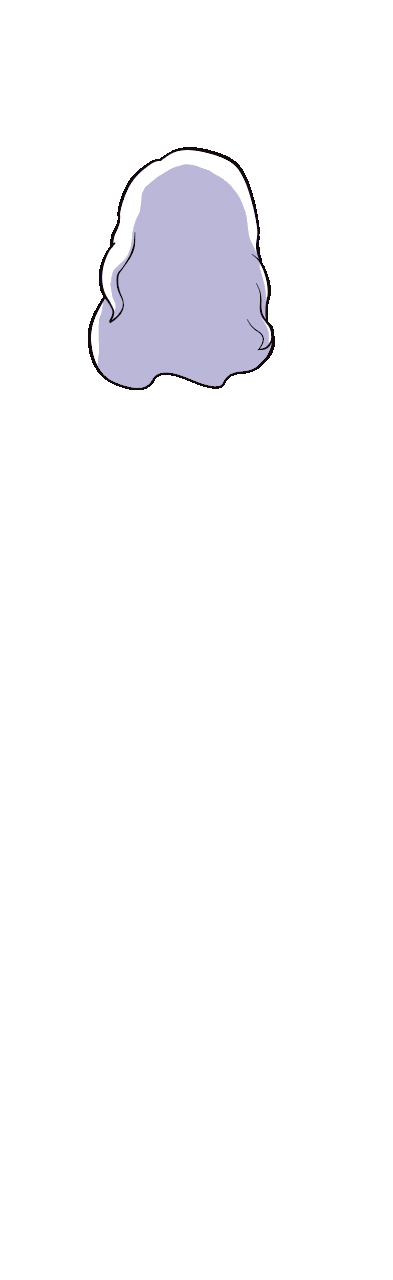
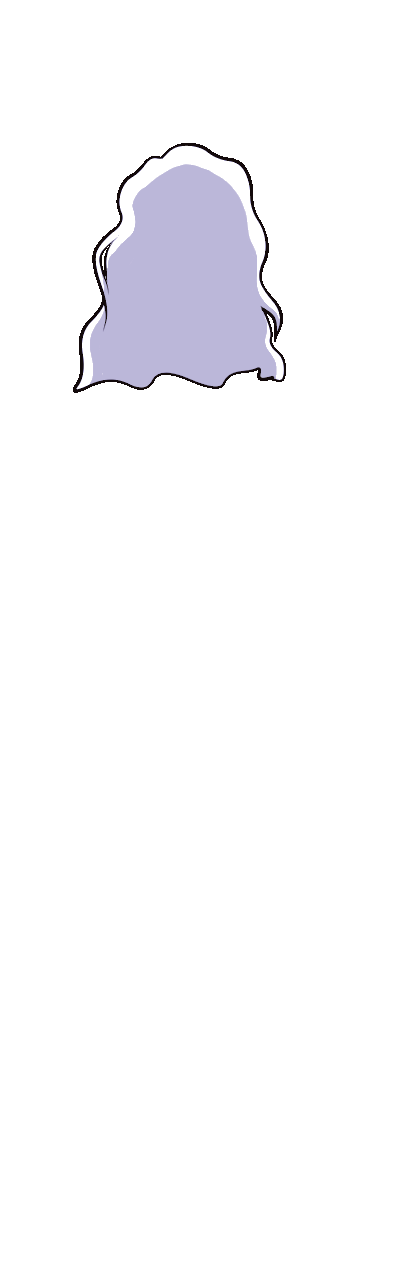
new hairstyles

diff --git a/code/generated.js b/code/generated.js
@@ -39,7 +39,7 @@ const defining_list = ["eyewear","neckwear","earrings","gloves","back","bottom",
 const back_list_d = [["none","thin tail","fluffy tail","sword","katanas",],["none","thin tail","fluffy tail","sword","katanas",],["fluffy tail","thin tail","sword","katanas",],[],[],true];
 const hat_back_list_d = [["none","bandanna","beanie","bowler","broad hat","cap","fedora","top hat","witch hat","top hat","scarf","turban","hood",],["none","bandanna","beanie","bowler","broad hat","cap","fedora","top hat","witch hat","top hat","scarf","turban","hood",],[],["scarf",],[],true];
 const hat_back_list_d_dec = [["scarf",],["scarf",],[],[],[],true];
-const hair_extra_list_d = [["none","topknot","straight high pony","straight low pony","curly pony","small curly pony","low curly pony","bun","fancy bun","locs bun","twin braids","twintails","locs pony",],["none","topknot",],["fancy bun","topknot",],[],[],true];
+const hair_extra_list_d = [["none","topknot","straight high pony","straight low pony","curly pony","small curly pony","low curly pony","bun","fancy bun","locs bun","little bun","little buns","twin braids","twintails","long twintails","twin puffs","side straight pony","long side straight pony","locs pony",],["none","topknot",],["fancy bun","topknot",],[],[],true];
 const hair_back_list_d = [["none","balding","buzzcut","straight short","curly short","wavy short","straight side","fade","shaggy short","tight curls short","tight curls medium","shaggy medium","curly bob","wavy bob","straight bob","locs bob","half up medium wavy","straight long","wavy long","curly long","long locs","curly flowing","straight flowing","straight up","curly up","locs up",],["none","balding","buzzcut","straight short","curly short","wavy short","straight side","fade","shaggy short","tight curls short","tight curls medium","shaggy medium","curly bob","wavy bob","straight bob","locs bob","half up medium wavy","straight long","wavy long","curly long","long locs","curly flowing","straight flowing","straight up","curly up","locs up",],[],[],[],true];
 const coat_back_list_d = [["none","medium cloak","wrap","overcoat","short jacket","dress jacket","business jacket","buttoned jacket","cool jacket","open robe","closed robe","open sweater","long open jacket","hoodie",],["none","medium cloak","wrap","overcoat","short jacket","dress jacket","business jacket","buttoned jacket","cool jacket","open robe","closed robe","open sweater","long open jacket","hoodie",],[],[],[],true];
 const body_list_d = [["regular",],["regular",],[],[],[],true];
@@ -87,7 +87,7 @@ const eyebrows_list_d = [["flat","flat sad","flat grumpy","flat angry","sad","sa
 const eyes_list_d = [["neutral","side","crescents","flat","narrowed","happy","wide","shock","angry","angry side","sleepy","wink","rolled",],["neutral","side","crescents","flat","narrowed","happy","wide","shock","angry","angry side","sleepy","wink","rolled",],[],[],[],true];
 const facial_hair_list_d = [["none",],["none","beard","moustache","goatee","soul patch","fluffy goatee","stubble",],[],[],[],true];
 const nose_front_list_d = [["none","nostrils","button","round","medium","flat","broad","pointed","hooked",],["none","nostrils","button","round","medium","flat","broad","pointed","hooked",],["none","nostrils",],[],[],true];
-const hair_front_list_d = [["none","balding","neat side","fade","long locs","curly flowing","curly long","straight flowing","locs bun","locs bob","short locs","cornrows",],["none","balding","neat side","fade","long locs","curly flowing","curly long","straight flowing","locs bun","locs bob","short locs","cornrows",],[],[],[],true];
+const hair_front_list_d = [["none","balding","neat side","fade","long locs","curly flowing","curly long","straight half up","bob half up","straight flowing","locs bun","locs bob","short locs","cornrows",],["none","balding","neat side","fade","long locs","curly flowing","curly long","straight half up","bob half up","straight flowing","locs bun","locs bob","short locs","cornrows",],[],[],[],true];
 const eyewear_list_d = [["none","eye patch","oblong wireframes","coloured wireframes","oblong glasses","square glasses","round glasses","coloured spectacles","spectacles","sunglasses","coloured glasses","domino mask","face mask",],["none","monocle","eye patch","oblong wireframes","coloured wireframes","oblong glasses","square glasses","round glasses","coloured spectacles","spectacles","sunglasses","coloured glasses","domino mask","face mask",],["monocle","spectacles","coloured spectacles","eye patch","domino mask",],["coloured spectacles","coloured glasses",],[],true];
 const eyewear_list_d_dec = [["coloured spectacles","coloured glasses",],["coloured spectacles","coloured glasses",],[],[],[],true];
 const hat_middle_list_d = [["none","beads","head band","side bow","bow","tiara","scarf","cat ears","curled horns","pointed horns",],["none","sweat band","cat ears","curled horns","pointed horns",],["beads","cat ears","curled horns","pointed horns","tiara",],[],[],false];
@@ -376,11 +376,11 @@ const character_preset_defining_list=[
 {name:'eyes',value_list:[0,5,1,8,6,1,7,3,1,0],colour1:'#9ccfe5',colour2:'#00FF00',patterncolour:'#0000FF',pattern:0},
 {name:'facial_hair',value_list:[0,0,0,0,0,0,0,0,0,0],colour1:'#FF0000',colour2:'#00FF00',patterncolour:'#0000FF',pattern:0},
 {name:'eyewear',value_list:[10,10,10,10,10,10,10,10,10,10],colour1:'#86b13a',colour2:'#C06C84',patterncolour:'#FDEECD',pattern:0},
-{name:'fringe',value_list:[16,16,16,16,16,16,16,16,16,16],colour1:'#efd17b',colour2:'#00FF00',patterncolour:'#0000FF',pattern:0},
+{name:'fringe',value_list:[18,18,18,18,18,18,18,18,18,18],colour1:'#efd17b',colour2:'#00FF00',patterncolour:'#0000FF',pattern:0},
 {name:'wheelchair',value_list:[0,0,0,0,0,0,0,0,0,0],colour1:'#FF0000',colour2:'#00FF00',patterncolour:'#0000FF',pattern:0},
 {name:'hat',value_list:[6,6,6,6,6,6,6,6,6,6],colour1:'#85d9da',colour2:'#C04848',patterncolour:'#1F5F61',pattern:0}],ui_variables_object:
-{dark_theme:false,current_tab_type:2,current_expression_type:0,current_clothingname:2,current_accessoryname:0,current_export_image_type:0,current_gender_type:0,current_size_type:0,current_head_ratio_type:0,crop_height:'0',current_effect_type:0,effect_colour:'#000000',current_character_preset:0,current_expression_preset:0,isWeirdOutfit:false,isWeirdBody:false},defining_variables_object:
-{current_eyetype:1,current_hairstyle:15,current_waist_type:0}},
+{dark_theme:false,current_tab_type:1,current_expression_type:0,current_clothingname:0,current_accessoryname:0,current_export_image_type:0,current_gender_type:0,current_size_type:0,current_head_ratio_type:0,crop_height:300,current_effect_type:0,effect_colour:'#000000',current_character_preset:0,current_expression_preset:0,isWeirdOutfit:false,isWeirdBody:false},defining_variables_object:
+{current_eyetype:1,current_hairstyle:19,current_waist_type:0}},
 
 
 {current_defining_objects:[
@@ -448,10 +448,10 @@ const character_preset_defining_list=[
 {name:'eyes',value_list:[0,5,1,8,6,1,7,3,1,0],colour1:'#4f5462',colour2:'#00FF00',patterncolour:'#0000FF',pattern:0},
 {name:'facial_hair',value_list:[0,0,0,0,0,0,0,0,0,0],colour1:'#FF0000',colour2:'#00FF00',patterncolour:'#0000FF',pattern:0},
 {name:'eyewear',value_list:[0,0,0,0,0,0,0,0,0,0],colour1:'#F67280',colour2:'#355C7D',patterncolour:'#C06C84',pattern:2},
-{name:'fringe',value_list:[4,4,4,4,4,4,4,4,4,4],colour1:'#986034',colour2:'#00FF00',patterncolour:'#0000FF',pattern:0},
+{name:'fringe',value_list:[5,5,5,5,5,5,5,5,5,5],colour1:'#986034',colour2:'#00FF00',patterncolour:'#0000FF',pattern:0},
 {name:'wheelchair',value_list:[0,0,0,0,0,0,0,0,0,0],colour1:'#FF0000',colour2:'#00FF00',patterncolour:'#0000FF',pattern:0},
 {name:'hat',value_list:[6,6,6,6,6,6,6,6,6,6],colour1:'#e5c673',colour2:'#F8B195',patterncolour:'#C06C84',pattern:0}],ui_variables_object:
-{dark_theme:false,current_tab_type:5,current_expression_type:0,current_clothingname:1,current_accessoryname:5,current_export_image_type:0,current_gender_type:0,current_size_type:0,current_head_ratio_type:0,crop_height:'0',current_effect_type:0,effect_colour:'#000000',current_character_preset:9,current_expression_preset:2,isWeirdOutfit:false,isWeirdBody:false},defining_variables_object:
+{dark_theme:false,current_tab_type:5,current_expression_type:0,current_clothingname:0,current_accessoryname:0,current_export_image_type:0,current_gender_type:0,current_size_type:0,current_head_ratio_type:0,crop_height:300,current_effect_type:0,effect_colour:'#000000',current_character_preset:2,current_expression_preset:0,isWeirdOutfit:false,isWeirdBody:false},defining_variables_object:
 {current_eyetype:2,current_hairstyle:9,current_waist_type:0}},
 
 
@@ -484,10 +484,10 @@ const character_preset_defining_list=[
 {name:'eyes',value_list:[0,2,5,8,6,4,6,3,0,0],colour1:'#5b9659',colour2:'#00FF00',patterncolour:'#0000FF',pattern:0},
 {name:'facial_hair',value_list:[0,0,0,0,0,0,0,0,0,0],colour1:'#FF0000',colour2:'#00FF00',patterncolour:'#0000FF',pattern:0},
 {name:'eyewear',value_list:[0,0,0,0,0,0,0,0,0,0],colour1:'#A0C55F',colour2:'#A0C55F',patterncolour:'#0D6759',pattern:0},
-{name:'fringe',value_list:[20,20,20,20,20,20,20,20,20,20],colour1:'#c04532',colour2:'#00FF00',patterncolour:'#0000FF',pattern:0},
+{name:'fringe',value_list:[22,22,22,22,22,22,22,22,22,22],colour1:'#c04532',colour2:'#00FF00',patterncolour:'#0000FF',pattern:0},
 {name:'wheelchair',value_list:[0,0,0,0,0,0,0,0,0,0],colour1:'#FF0000',colour2:'#00FF00',patterncolour:'#0000FF',pattern:0},
 {name:'hat',value_list:[0,0,0,0,0,0,0,0,0,0],colour1:'#e8e3cd',colour2:'#2A044A',patterncolour:'#0D6759',pattern:0}],ui_variables_object:
-{dark_theme:false,current_tab_type:5,current_expression_type:0,current_clothingname:2,current_accessoryname:0,current_export_image_type:0,current_gender_type:0,current_size_type:0,current_head_ratio_type:0,crop_height:'0',current_effect_type:0,effect_colour:'#000000',current_character_preset:2,current_expression_preset:0,isWeirdOutfit:false,isWeirdBody:false},defining_variables_object:
+{dark_theme:false,current_tab_type:1,current_expression_type:0,current_clothingname:0,current_accessoryname:0,current_export_image_type:0,current_gender_type:0,current_size_type:0,current_head_ratio_type:0,crop_height:300,current_effect_type:0,effect_colour:'#000000',current_character_preset:3,current_expression_preset:0,isWeirdOutfit:false,isWeirdBody:false},defining_variables_object:
 {current_eyetype:6,current_hairstyle:4,current_waist_type:0}},
 
 
@@ -520,11 +520,11 @@ const character_preset_defining_list=[
 {name:'eyes',value_list:[0,5,0,4,6,1,6,3,1,0],colour1:'#c47fc9',colour2:'#00FF00',patterncolour:'#0000FF',pattern:0},
 {name:'facial_hair',value_list:[0,0,0,0,0,0,0,0,0,0],colour1:'#FF0000',colour2:'#00FF00',patterncolour:'#0000FF',pattern:0},
 {name:'eyewear',value_list:[13,13,13,13,13,13,13,13,13,13],colour1:'#33302a',colour2:'#6C5B7B',patterncolour:'#1C0113',pattern:0},
-{name:'fringe',value_list:[25,25,25,25,25,25,25,25,25,25],colour1:'#fef9f0',colour2:'#00FF00',patterncolour:'#0000FF',pattern:0},
+{name:'fringe',value_list:[6,6,6,6,6,6,6,6,6,6],colour1:'#fef9f0',colour2:'#00FF00',patterncolour:'#0000FF',pattern:0},
 {name:'wheelchair',value_list:[0,0,0,0,0,0,0,0,0,0],colour1:'#FF0000',colour2:'#00FF00',patterncolour:'#0000FF',pattern:0},
 {name:'hat',value_list:[14,14,14,14,14,14,14,14,14,14],colour1:'#33302a',colour2:'#D24858',patterncolour:'#1C0113',pattern:0}],ui_variables_object:
-{dark_theme:false,current_tab_type:5,current_expression_type:0,current_clothingname:2,current_accessoryname:0,current_export_image_type:0,current_gender_type:0,current_size_type:0,current_head_ratio_type:0,crop_height:'0',current_effect_type:0,effect_colour:'#000000',current_character_preset:1,current_expression_preset:0,isWeirdOutfit:true,isWeirdBody:true},defining_variables_object:
-{current_eyetype:3,current_hairstyle:28,current_waist_type:0}},
+{dark_theme:false,current_tab_type:5,current_expression_type:0,current_clothingname:0,current_accessoryname:0,current_export_image_type:0,current_gender_type:0,current_size_type:0,current_head_ratio_type:0,crop_height:300,current_effect_type:0,effect_colour:'#000000',current_character_preset:4,current_expression_preset:0,isWeirdOutfit:true,isWeirdBody:true},defining_variables_object:
+{current_eyetype:3,current_hairstyle:5,current_waist_type:0}},
 
 
 {current_defining_objects:[
@@ -556,11 +556,11 @@ const character_preset_defining_list=[
 {name:'eyes',value_list:[0,5,1,8,6,1,7,3,1,0],colour1:'#a8002a',colour2:'#00FF00',patterncolour:'#0000FF',pattern:0},
 {name:'facial_hair',value_list:[0,0,0,0,0,0,0,0,0,0],colour1:'#FF0000',colour2:'#00FF00',patterncolour:'#0000FF',pattern:0},
 {name:'eyewear',value_list:[0,0,0,0,0,0,0,0,0,0],colour1:'#A8E6CE',colour2:'#F0B49E',patterncolour:'#300030',pattern:0},
-{name:'fringe',value_list:[19,19,19,19,19,19,19,19,19,19],colour1:'#8ecf6b',colour2:'#00FF00',patterncolour:'#0000FF',pattern:0},
+{name:'fringe',value_list:[21,21,21,21,21,21,21,21,21,21],colour1:'#8ecf6b',colour2:'#00FF00',patterncolour:'#0000FF',pattern:0},
 {name:'wheelchair',value_list:[0,0,0,0,0,0,0,0,0,0],colour1:'#FF0000',colour2:'#00FF00',patterncolour:'#0000FF',pattern:0},
 {name:'hat',value_list:[3,3,3,3,3,3,3,3,3,3],colour1:'#ede3cd',colour2:'#571B3C',patterncolour:'#A26156',pattern:8}],ui_variables_object:
-{dark_theme:false,current_tab_type:1,current_expression_type:0,current_clothingname:5,current_accessoryname:2,current_export_image_type:0,current_gender_type:0,current_size_type:0,current_head_ratio_type:0,crop_height:'0',current_effect_type:0,effect_colour:'#000000',current_character_preset:9,current_expression_preset:0,isWeirdOutfit:false,isWeirdBody:false},defining_variables_object:
-{current_eyetype:3,current_hairstyle:22,current_waist_type:0}},
+{dark_theme:false,current_tab_type:5,current_expression_type:0,current_clothingname:0,current_accessoryname:0,current_export_image_type:0,current_gender_type:0,current_size_type:0,current_head_ratio_type:0,crop_height:300,current_effect_type:0,effect_colour:'#000000',current_character_preset:5,current_expression_preset:0,isWeirdOutfit:true,isWeirdBody:true},defining_variables_object:
+{current_eyetype:3,current_hairstyle:26,current_waist_type:0}},
 
 
 {current_defining_objects:[
@@ -592,10 +592,10 @@ const character_preset_defining_list=[
 {name:'eyes',value_list:[0,5,0,4,6,1,6,3,1,0],colour1:'#99925F',colour2:'#00FF00',patterncolour:'#0000FF',pattern:0},
 {name:'facial_hair',value_list:[2,2,2,2,2,2,2,2,2,2],colour1:'#FAF6E9',colour2:'#FAF1CF',patterncolour:'#0000FF',pattern:0},
 {name:'eyewear',value_list:[3,3,3,3,3,3,3,3,3,3],colour1:'#7AB317',colour2:'#40524f',patterncolour:'#e8e5d0',pattern:0},
-{name:'fringe',value_list:[9,9,9,9,9,9,9,9,9,9],colour1:'#D8B994',colour2:'#00FF00',patterncolour:'#0000FF',pattern:0},
+{name:'fringe',value_list:[10,10,10,10,10,10,10,10,10,10],colour1:'#D8B994',colour2:'#00FF00',patterncolour:'#0000FF',pattern:0},
 {name:'wheelchair',value_list:[0,0,0,0,0,0,0,0,0,0],colour1:'#E1748A',colour2:'#FAF1CF',patterncolour:'#0000FF',pattern:0},
 {name:'hat',value_list:[8,8,8,8,8,8,8,8,8,8],colour1:'#3e3831',colour2:'#3c534f',patterncolour:'#36544F',pattern:0}],ui_variables_object:
-{dark_theme:false,current_tab_type:5,current_expression_type:0,current_clothingname:0,current_accessoryname:0,current_export_image_type:0,current_gender_type:1,current_size_type:0,current_head_ratio_type:0,crop_height:300,current_effect_type:0,effect_colour:'#000000',current_character_preset:3,current_expression_preset:0,isWeirdOutfit:false,isWeirdBody:false},defining_variables_object:
+{dark_theme:false,current_tab_type:5,current_expression_type:0,current_clothingname:0,current_accessoryname:0,current_export_image_type:0,current_gender_type:1,current_size_type:0,current_head_ratio_type:0,crop_height:300,current_effect_type:0,effect_colour:'#000000',current_character_preset:6,current_expression_preset:0,isWeirdOutfit:false,isWeirdBody:false},defining_variables_object:
 {current_eyetype:6,current_hairstyle:8,current_waist_type:0}},
 
 
@@ -631,8 +631,8 @@ const character_preset_defining_list=[
 {name:'fringe',value_list:[0,0,0,0,0,0,0,0,0,0],colour1:'#39211e',colour2:'#00FF00',patterncolour:'#0000FF',pattern:0},
 {name:'wheelchair',value_list:[0,0,0,0,0,0,0,0,0,0],colour1:'#FF0000',colour2:'#00FF00',patterncolour:'#0000FF',pattern:0},
 {name:'hat',value_list:[9,9,9,9,9,9,9,9,9,9],colour1:'#36587d',colour2:'#f7e4be',patterncolour:'#685b79',pattern:0}],ui_variables_object:
-{dark_theme:false,current_tab_type:5,current_expression_type:0,current_clothingname:3,current_accessoryname:5,current_export_image_type:0,current_gender_type:1,current_size_type:0,current_head_ratio_type:0,crop_height:'0',current_effect_type:0,effect_colour:'#000000',current_character_preset:0,current_expression_preset:0,isWeirdOutfit:false,isWeirdBody:false},defining_variables_object:
-{current_eyetype:0,current_hairstyle:26,current_waist_type:0}},
+{dark_theme:false,current_tab_type:5,current_expression_type:0,current_clothingname:0,current_accessoryname:0,current_export_image_type:0,current_gender_type:1,current_size_type:0,current_head_ratio_type:0,crop_height:300,current_effect_type:0,effect_colour:'#000000',current_character_preset:7,current_expression_preset:0,isWeirdOutfit:false,isWeirdBody:false},defining_variables_object:
+{current_eyetype:0,current_hairstyle:32,current_waist_type:0}},
 
 
 {current_defining_objects:[
@@ -664,11 +664,11 @@ const character_preset_defining_list=[
 {name:'eyes',value_list:[0,5,6,8,6,4,6,3,11,0],colour1:'#d340e5',colour2:'#00FF00',patterncolour:'#0000FF',pattern:0},
 {name:'facial_hair',value_list:[1,1,1,1,1,1,1,1,1,1],colour1:'#FF0000',colour2:'#00FF00',patterncolour:'#0000FF',pattern:0},
 {name:'eyewear',value_list:[9,9,9,9,9,9,9,9,9,9],colour1:'#e5b186',colour2:'#F07241',patterncolour:'#480048',pattern:0},
-{name:'fringe',value_list:[14,14,14,14,14,14,14,14,14,14],colour1:'#4a499b',colour2:'#00FF00',patterncolour:'#0000FF',pattern:0},
+{name:'fringe',value_list:[16,16,16,16,16,16,16,16,16,16],colour1:'#4a499b',colour2:'#00FF00',patterncolour:'#0000FF',pattern:0},
 {name:'wheelchair',value_list:[0,0,0,0,0,0,0,0,0,0],colour1:'#FF0000',colour2:'#00FF00',patterncolour:'#0000FF',pattern:0},
 {name:'hat',value_list:[11,11,11,11,11,11,11,11,11,11],colour1:'#220048',colour2:'#c05f48',patterncolour:'#F07241',pattern:0}],ui_variables_object:
-{dark_theme:false,current_tab_type:5,current_expression_type:0,current_clothingname:1,current_accessoryname:2,current_export_image_type:0,current_gender_type:1,current_size_type:0,current_head_ratio_type:0,crop_height:'0',current_effect_type:0,effect_colour:'#000000',current_character_preset:4,current_expression_preset:0,isWeirdOutfit:true,isWeirdBody:true},defining_variables_object:
-{current_eyetype:1,current_hairstyle:27,current_waist_type:0}},
+{dark_theme:false,current_tab_type:5,current_expression_type:0,current_clothingname:0,current_accessoryname:0,current_export_image_type:0,current_gender_type:1,current_size_type:0,current_head_ratio_type:0,crop_height:300,current_effect_type:0,effect_colour:'#000000',current_character_preset:8,current_expression_preset:0,isWeirdOutfit:true,isWeirdBody:true},defining_variables_object:
+{current_eyetype:1,current_hairstyle:22,current_waist_type:0}},
 
 
 {current_defining_objects:[
@@ -700,11 +700,11 @@ const character_preset_defining_list=[
 {name:'eyes',value_list:[0,5,0,4,6,1,6,3,1,0],colour1:'#fad56d',colour2:'#00FF00',patterncolour:'#0000FF',pattern:0},
 {name:'facial_hair',value_list:[0,0,0,0,0,0,0,0,0,0],colour1:'#FF0000',colour2:'#00FF00',patterncolour:'#0000FF',pattern:0},
 {name:'eyewear',value_list:[0,0,0,0,0,0,0,0,0,0],colour1:'#D24858',colour2:'#703D6F',patterncolour:'#D24858',pattern:0},
-{name:'fringe',value_list:[15,15,15,15,15,15,15,15,15,15],colour1:'#3f2a42',colour2:'#00FF00',patterncolour:'#0000FF',pattern:0},
+{name:'fringe',value_list:[17,17,17,17,17,17,17,17,17,17],colour1:'#3f2a42',colour2:'#00FF00',patterncolour:'#0000FF',pattern:0},
 {name:'wheelchair',value_list:[0,0,0,0,0,0,0,0,0,0],colour1:'#FF0000',colour2:'#00FF00',patterncolour:'#0000FF',pattern:0},
 {name:'hat',value_list:[1,1,1,1,1,1,1,1,1,1],colour1:'#eae5cf',colour2:'#571B3C',patterncolour:'#C7EDE8',pattern:0}],ui_variables_object:
-{dark_theme:false,current_tab_type:5,current_expression_type:0,current_clothingname:1,current_accessoryname:2,current_export_image_type:0,current_gender_type:1,current_size_type:0,current_head_ratio_type:0,crop_height:'0',current_effect_type:0,effect_colour:'#000000',current_character_preset:5,current_expression_preset:0,isWeirdOutfit:true,isWeirdBody:false},defining_variables_object:
-{current_eyetype:3,current_hairstyle:22,current_waist_type:0}},
+{dark_theme:false,current_tab_type:5,current_expression_type:0,current_clothingname:0,current_accessoryname:0,current_export_image_type:0,current_gender_type:1,current_size_type:0,current_head_ratio_type:0,crop_height:300,current_effect_type:0,effect_colour:'#000000',current_character_preset:9,current_expression_preset:0,isWeirdOutfit:true,isWeirdBody:false},defining_variables_object:
+{current_eyetype:3,current_hairstyle:18,current_waist_type:0}},
 
 
 {current_defining_objects:[
@@ -736,11 +736,11 @@ const character_preset_defining_list=[
 {name:'eyes',value_list:[0,2,5,8,6,4,6,3,0,0],colour1:'#ce9653',colour2:'#00FF00',patterncolour:'#0000FF',pattern:0},
 {name:'facial_hair',value_list:[3,3,3,3,3,3,3,3,3,3],colour1:'#FF0000',colour2:'#00FF00',patterncolour:'#0000FF',pattern:0},
 {name:'eyewear',value_list:[1,1,1,1,1,1,1,1,1,1],colour1:'#cfa764',colour2:'#FCECCA',patterncolour:'#93D7DB',pattern:0},
-{name:'fringe',value_list:[22,22,22,22,22,22,22,22,22,22],colour1:'#6f3a48',colour2:'#00FF00',patterncolour:'#0000FF',pattern:0},
+{name:'fringe',value_list:[25,25,25,25,25,25,25,25,25,25],colour1:'#6f3a48',colour2:'#00FF00',patterncolour:'#0000FF',pattern:0},
 {name:'wheelchair',value_list:[0,0,0,0,0,0,0,0,0,0],colour1:'#FF0000',colour2:'#00FF00',patterncolour:'#0000FF',pattern:0},
 {name:'hat',value_list:[5,5,5,5,5,5,5,5,5,5],colour1:'#ADD9D5',colour2:'#996458',patterncolour:'#ADD9D5',pattern:0}],ui_variables_object:
-{dark_theme:false,current_tab_type:1,current_expression_type:0,current_clothingname:4,current_accessoryname:5,current_export_image_type:0,current_gender_type:1,current_size_type:0,current_head_ratio_type:0,crop_height:'0',current_effect_type:0,effect_colour:'#000000',current_character_preset:9,current_expression_preset:2,isWeirdOutfit:true,isWeirdBody:false},defining_variables_object:
-{current_eyetype:2,current_hairstyle:8,current_waist_type:0}},
+{dark_theme:false,current_tab_type:5,current_expression_type:0,current_clothingname:0,current_accessoryname:0,current_export_image_type:0,current_gender_type:1,current_size_type:0,current_head_ratio_type:0,crop_height:300,current_effect_type:0,effect_colour:'#000000',current_character_preset:10,current_expression_preset:0,isWeirdOutfit:true,isWeirdBody:false},defining_variables_object:
+{current_eyetype:2,current_hairstyle:7,current_waist_type:0}},
 
 
 {current_defining_objects:[
@@ -772,11 +772,11 @@ const character_preset_defining_list=[
 {name:'eyes',value_list:[0,5,6,8,6,4,6,3,11,0],colour1:'#461c18',colour2:'#00FF00',patterncolour:'#0000FF',pattern:0},
 {name:'facial_hair',value_list:[0,0,0,0,0,0,0,0,0,0],colour1:'#FAF6E9',colour2:'#FAF1CF',patterncolour:'#0000FF',pattern:0},
 {name:'eyewear',value_list:[0,0,0,0,0,0,0,0,0,0],colour1:'#C7EDE8',colour2:'#cfbd84',patterncolour:'#375a86',pattern:0},
-{name:'fringe',value_list:[25,25,25,25,25,25,25,25,25,25],colour1:'#402040',colour2:'#00FF00',patterncolour:'#0000FF',pattern:0},
+{name:'fringe',value_list:[19,19,19,19,19,19,19,19,19,19],colour1:'#402040',colour2:'#00FF00',patterncolour:'#0000FF',pattern:0},
 {name:'wheelchair',value_list:[0,0,0,0,0,0,0,0,0,0],colour1:'#E1748A',colour2:'#FAF1CF',patterncolour:'#0000FF',pattern:0},
 {name:'hat',value_list:[0,0,0,0,0,0,0,0,0,0],colour1:'#e7d083',colour2:'#2c5b8a',patterncolour:'#C7EDE8',pattern:11}],ui_variables_object:
-{dark_theme:false,current_tab_type:5,current_expression_type:0,current_clothingname:5,current_accessoryname:2,current_export_image_type:0,current_gender_type:2,current_size_type:0,current_head_ratio_type:0,crop_height:'0',current_effect_type:0,effect_colour:'#000000',current_character_preset:6,current_expression_preset:0,isWeirdOutfit:false,isWeirdBody:false},defining_variables_object:
-{current_eyetype:5,current_hairstyle:28,current_waist_type:1}},
+{dark_theme:false,current_tab_type:5,current_expression_type:0,current_clothingname:0,current_accessoryname:0,current_export_image_type:0,current_gender_type:2,current_size_type:0,current_head_ratio_type:0,crop_height:300,current_effect_type:0,effect_colour:'#000000',current_character_preset:11,current_expression_preset:0,isWeirdOutfit:false,isWeirdBody:false},defining_variables_object:
+{current_eyetype:5,current_hairstyle:32,current_waist_type:1}},
 
 
 {current_defining_objects:[
@@ -796,7 +796,7 @@ const character_preset_defining_list=[
 {name:'neckwear',value_list:[4,4,4,4,4,4,4,4,4,4],colour1:'#c2515a',colour2:'#774F38',patterncolour:'#E08E79',pattern:0},
 {name:'overshirt',value_list:[0,0,0,0,0,0,0,0,0,0],colour1:'#C5E0DC',colour2:'#774F38',patterncolour:'#F1D4AF',pattern:0},
 {name:'coat',value_list:[0,0,0,0,0,0,0,0,0,0],colour1:'#E08E79',colour2:'#774F38',patterncolour:'#F1D4AF',pattern:7},
-{name:'sidelocks',value_list:[5,5,5,5,5,5,5,5,5,5],colour1:'#FF0000',colour2:'#00FF00',patterncolour:'#0000FF',pattern:0},
+{name:'sidelocks',value_list:[6,6,6,6,6,6,6,6,6,6],colour1:'#FF0000',colour2:'#00FF00',patterncolour:'#0000FF',pattern:0},
 {name:'head',value_list:[1,1,1,1,1,1,1,1,1,1],colour1:'#f3ca9e',colour2:'#00FF00',patterncolour:'#0000FF',pattern:0},
 {name:'ears',value_list:[1,1,1,1,1,1,1,1,1,1],colour1:'#FF0000',colour2:'#00FF00',patterncolour:'#0000FF',pattern:0},
 {name:'earrings',value_list:[1,1,1,1,1,1,1,1,1,1],colour1:'#C5E0DC',colour2:'#ECE5CE',patterncolour:'#774F38',pattern:0},
@@ -808,10 +808,10 @@ const character_preset_defining_list=[
 {name:'eyes',value_list:[0,2,5,8,6,4,6,3,0,0],colour1:'#8a452b',colour2:'#00FF00',patterncolour:'#0000FF',pattern:0},
 {name:'facial_hair',value_list:[0,0,0,0,0,0,0,0,0,0],colour1:'#FF0000',colour2:'#00FF00',patterncolour:'#0000FF',pattern:0},
 {name:'eyewear',value_list:[0,0,0,0,0,0,0,0,0,0],colour1:'#0a1520',colour2:'#C5E0DC',patterncolour:'#F1D4AF',pattern:0},
-{name:'fringe',value_list:[5,5,5,5,5,5,5,5,5,5],colour1:'#3d1f48',colour2:'#00FF00',patterncolour:'#0000FF',pattern:0},
+{name:'fringe',value_list:[6,6,6,6,6,6,6,6,6,6],colour1:'#3d1f48',colour2:'#00FF00',patterncolour:'#0000FF',pattern:0},
 {name:'wheelchair',value_list:[0,0,0,0,0,0,0,0,0,0],colour1:'#FF0000',colour2:'#00FF00',patterncolour:'#0000FF',pattern:0},
 {name:'hat',value_list:[16,16,16,16,16,16,16,16,16,16],colour1:'#c15059',colour2:'#ECE5CE',patterncolour:'#E08E79',pattern:0}],ui_variables_object:
-{dark_theme:false,current_tab_type:5,current_expression_type:0,current_clothingname:3,current_accessoryname:2,current_export_image_type:0,current_gender_type:2,current_size_type:0,current_head_ratio_type:0,crop_height:'0',current_effect_type:0,effect_colour:'#000000',current_character_preset:7,current_expression_preset:0,isWeirdOutfit:false,isWeirdBody:false},defining_variables_object:
+{dark_theme:false,current_tab_type:5,current_expression_type:0,current_clothingname:0,current_accessoryname:0,current_export_image_type:0,current_gender_type:2,current_size_type:0,current_head_ratio_type:0,crop_height:300,current_effect_type:0,effect_colour:'#000000',current_character_preset:12,current_expression_preset:0,isWeirdOutfit:false,isWeirdBody:false},defining_variables_object:
 {current_eyetype:0,current_hairstyle:17,current_waist_type:0}},
 
 
@@ -844,11 +844,11 @@ const character_preset_defining_list=[
 {name:'eyes',value_list:[0,5,6,8,6,4,6,3,11,0],colour1:'#9c5f9d',colour2:'#00FF00',patterncolour:'#0000FF',pattern:0},
 {name:'facial_hair',value_list:[0,0,0,0,0,0,0,0,0,0],colour1:'#FF0000',colour2:'#00FF00',patterncolour:'#0000FF',pattern:0},
 {name:'eyewear',value_list:[0,0,0,0,0,0,0,0,0,0],colour1:'#C5E0DC',colour2:'#E08E79',patterncolour:'#C5E0DC',pattern:0},
-{name:'fringe',value_list:[5,5,5,5,5,5,5,5,5,5],colour1:'#463762',colour2:'#00FF00',patterncolour:'#0000FF',pattern:0},
+{name:'fringe',value_list:[6,6,6,6,6,6,6,6,6,6],colour1:'#463762',colour2:'#00FF00',patterncolour:'#0000FF',pattern:0},
 {name:'wheelchair',value_list:[0,0,0,0,0,0,0,0,0,0],colour1:'#FF0000',colour2:'#00FF00',patterncolour:'#0000FF',pattern:0},
 {name:'hat',value_list:[21,21,21,21,21,21,21,21,21,21],colour1:'#dc8b79',colour2:'#F1D4AF',patterncolour:'#ECE5CE',pattern:0}],ui_variables_object:
-{dark_theme:false,current_tab_type:1,current_expression_type:0,current_clothingname:3,current_accessoryname:2,current_export_image_type:0,current_gender_type:2,current_size_type:0,current_head_ratio_type:0,crop_height:'0',current_effect_type:0,effect_colour:'#000000',current_character_preset:8,current_expression_preset:0,isWeirdOutfit:false,isWeirdBody:false},defining_variables_object:
-{current_eyetype:5,current_hairstyle:28,current_waist_type:0}},
+{dark_theme:false,current_tab_type:5,current_expression_type:0,current_clothingname:0,current_accessoryname:0,current_export_image_type:0,current_gender_type:2,current_size_type:0,current_head_ratio_type:0,crop_height:300,current_effect_type:0,effect_colour:'#000000',current_character_preset:13,current_expression_preset:0,isWeirdOutfit:false,isWeirdBody:false},defining_variables_object:
+{current_eyetype:5,current_hairstyle:32,current_waist_type:0}},
 
 
 {current_defining_objects:[
@@ -880,10 +880,10 @@ const character_preset_defining_list=[
 {name:'eyes',value_list:[0,5,6,8,6,4,6,3,11,0],colour1:'#733c2d',colour2:'#00FF00',patterncolour:'#0000FF',pattern:0},
 {name:'facial_hair',value_list:[0,0,0,0,0,0,0,0,0,0],colour1:'#FF0000',colour2:'#00FF00',patterncolour:'#0000FF',pattern:0},
 {name:'eyewear',value_list:[7,7,7,7,7,7,7,7,7,7],colour1:'#b594c6',colour2:'#397e84',patterncolour:'#b38184',pattern:0},
-{name:'fringe',value_list:[3,3,3,3,3,3,3,3,3,3],colour1:'#402040',colour2:'#00FF00',patterncolour:'#0000FF',pattern:0},
+{name:'fringe',value_list:[4,4,4,4,4,4,4,4,4,4],colour1:'#402040',colour2:'#00FF00',patterncolour:'#0000FF',pattern:0},
 {name:'wheelchair',value_list:[0,0,0,0,0,0,0,0,0,0],colour1:'#FF0000',colour2:'#00FF00',patterncolour:'#0000FF',pattern:0},
 {name:'hat',value_list:[0,0,0,0,0,0,0,0,0,0],colour1:'#60bfa2',colour2:'#FF8C94',patterncolour:'#7ECECA',pattern:0}],ui_variables_object:
-{dark_theme:false,current_tab_type:2,current_expression_type:0,current_clothingname:5,current_accessoryname:0,current_export_image_type:0,current_gender_type:2,current_size_type:0,current_head_ratio_type:0,crop_height:'0',current_effect_type:0,effect_colour:'#000000',current_character_preset:0,current_expression_preset:0,isWeirdOutfit:false,isWeirdBody:false},defining_variables_object:
+{dark_theme:false,current_tab_type:5,current_expression_type:0,current_clothingname:0,current_accessoryname:0,current_export_image_type:0,current_gender_type:2,current_size_type:0,current_head_ratio_type:0,crop_height:300,current_effect_type:0,effect_colour:'#000000',current_character_preset:14,current_expression_preset:0,isWeirdOutfit:false,isWeirdBody:false},defining_variables_object:
 {current_eyetype:3,current_hairstyle:13,current_waist_type:0}},
 
 
@@ -916,10 +916,10 @@ const character_preset_defining_list=[
 {name:'eyes',value_list:[0,2,5,8,6,4,6,3,0,0],colour1:'#92cc9f',colour2:'#00FF00',patterncolour:'#0000FF',pattern:0},
 {name:'facial_hair',value_list:[0,0,0,0,0,0,0,0,0,0],colour1:'#FF0000',colour2:'#00FF00',patterncolour:'#0000FF',pattern:0},
 {name:'eyewear',value_list:[5,5,5,5,5,5,5,5,5,5],colour1:'#ca5b5d',colour2:'#601848',patterncolour:'#480048',pattern:0},
-{name:'fringe',value_list:[9,9,9,9,9,9,9,9,9,9],colour1:'#c68c51',colour2:'#00FF00',patterncolour:'#0000FF',pattern:0},
+{name:'fringe',value_list:[12,12,12,12,12,12,12,12,12,12],colour1:'#c68c51',colour2:'#00FF00',patterncolour:'#0000FF',pattern:0},
 {name:'wheelchair',value_list:[0,0,0,0,0,0,0,0,0,0],colour1:'#FF0000',colour2:'#00FF00',patterncolour:'#0000FF',pattern:0},
 {name:'hat',value_list:[0,0,0,0,0,0,0,0,0,0],colour1:'#F07241',colour2:'#300030',patterncolour:'#C04848',pattern:0}],ui_variables_object:
-{dark_theme:false,current_tab_type:5,current_expression_type:0,current_clothingname:5,current_accessoryname:4,current_export_image_type:0,current_gender_type:2,current_size_type:0,current_head_ratio_type:0,crop_height:'0',current_effect_type:0,effect_colour:'#000000',current_character_preset:9,current_expression_preset:2,isWeirdOutfit:false,isWeirdBody:false},defining_variables_object:
+{dark_theme:false,current_tab_type:5,current_expression_type:0,current_clothingname:0,current_accessoryname:0,current_export_image_type:0,current_gender_type:2,current_size_type:0,current_head_ratio_type:0,crop_height:300,current_effect_type:0,effect_colour:'#000000',current_character_preset:15,current_expression_preset:0,isWeirdOutfit:false,isWeirdBody:false},defining_variables_object:
 {current_eyetype:5,current_hairstyle:17,current_waist_type:0}},
 
 
@@ -952,11 +952,11 @@ const character_preset_defining_list=[
 {name:'eyes',value_list:[0,2,5,8,6,4,6,3,0,0],colour1:'#2d6f1f',colour2:'#00FF00',patterncolour:'#0000FF',pattern:0},
 {name:'facial_hair',value_list:[0,0,0,0,0,0,0,0,0,0],colour1:'#FF0000',colour2:'#00FF00',patterncolour:'#0000FF',pattern:0},
 {name:'eyewear',value_list:[0,0,0,0,0,0,0,0,0,0],colour1:'#FFAAA6',colour2:'#DCEDC2',patterncolour:'#FF8C94',pattern:0},
-{name:'fringe',value_list:[25,25,25,25,25,25,25,25,25,25],colour1:'#781d1d',colour2:'#00FF00',patterncolour:'#0000FF',pattern:0},
+{name:'fringe',value_list:[27,27,27,27,27,27,27,27,27,27],colour1:'#781d1d',colour2:'#00FF00',patterncolour:'#0000FF',pattern:0},
 {name:'wheelchair',value_list:[0,0,0,0,0,0,0,0,0,0],colour1:'#FF0000',colour2:'#00FF00',patterncolour:'#0000FF',pattern:0},
 {name:'hat',value_list:[20,20,20,20,20,20,20,20,20,20],colour1:'#FFAAA6',colour2:'#DCEDC2',patterncolour:'#FFD3B5',pattern:0}],ui_variables_object:
-{dark_theme:false,current_tab_type:5,current_expression_type:0,current_clothingname:1,current_accessoryname:4,current_export_image_type:0,current_gender_type:2,current_size_type:0,current_head_ratio_type:0,crop_height:'0',current_effect_type:0,effect_colour:'#000000',current_character_preset:9,current_expression_preset:2,isWeirdOutfit:true,isWeirdBody:false},defining_variables_object:
-{current_eyetype:5,current_hairstyle:12,current_waist_type:0}},
+{dark_theme:false,current_tab_type:5,current_expression_type:0,current_clothingname:0,current_accessoryname:0,current_export_image_type:0,current_gender_type:2,current_size_type:0,current_head_ratio_type:0,crop_height:300,current_effect_type:0,effect_colour:'#000000',current_character_preset:16,current_expression_preset:0,isWeirdOutfit:true,isWeirdBody:false},defining_variables_object:
+{current_eyetype:5,current_hairstyle:30,current_waist_type:0}},
 
 ];
 

diff --git a/code/objectlists_setup.js b/code/objectlists_setup.js
@@ -318,6 +318,7 @@ const hairstyle_defining_list = [ //name, hair_front, hair_middle, hair_back
     ["straight short","none","long","straight short"],["curly short","none","short","curly short"],["wavy short","none","long","wavy short"],["side part","none","long","straight side"],["locs short","short locs","long shadowed","none"],
     ["fade","fade","long","fade"],["shaggy short","none","long","shaggy short"],["small tight curls","none","short","tight curls short"],
     ["tight curls","none","short","tight curls medium"],["shaggy medium","none","long","shaggy medium"], ["wavy bob","none","long shadowed","wavy bob"],["curly bob","none","long","curly bob"],["straight bob","none","long","straight bob"],
+    ["straight half up", "straight half up", "long", "straight long"],["wavy bob half up","bob half up","long shadowed","wavy bob"],["curly bob half up","bob half up","long","curly bob"],["straight bob half up","bob half up","long","straight bob"],
     ["locs half up", "locs bun", "long shadowed", "locs bob"],["locs bob", "locs bob", "long shadowed", "locs bob"],
     ["curly flowing", "curly flowing", "long shadowed", "curly flowing"],["straight flowing", "straight flowing", "long", "straight flowing"],
     ["straight long", "none", "long", "straight long"],["wavy long", "none", "long", "wavy long"],["curly long", "none", "long", "curly long"],["locs long", "long locs", "long shadowed", "long locs"],
@@ -325,7 +326,7 @@ const hairstyle_defining_list = [ //name, hair_front, hair_middle, hair_back
 ]
     
 const hairstyle_list = hairstyle_defining_list.map(value => value[0])  
-const hairstyle_list_u = ["cornrows","buzzcut", "straight short","curly short","wavy short","shaggy short","tight curls","shaggy medium","wavy bob","straight bob","straight high pony","straight low pony","curly pony","straight long","wavy long","curly long","locs long", "locs half up"]
+const hairstyle_list_u = ["cornrows","buzzcut", "straight short","curly short","wavy short","shaggy short","tight curls","shaggy medium","wavy bob","straight bob","straight high pony","straight low pony","curly pony","straight long","wavy long","curly long","locs long", "locs half up","straight half up","wavy bob half up","curly bob half up","straight bob half up"]
 const hairstyle_indices_m = (hairstyle_list_u.concat(["none", "balding", "shaved","fade", "side part","small tight curls"])).map(value => hairstyle_list.indexOf(value))
 const hairstyle_indices_f = (hairstyle_list_u.concat(["curly bob","twin braids", "curly bun","wavy bun","straight bun","locs bun", "locs up", "straight up", "curly up", "curly flowing","straight flowing"])).map(value => hairstyle_list.indexOf(value))
 const hairstyle_indices_w = ["fancy bun"].map(value => hairstyle_list.indexOf(value))

diff --git a/code/lists_of_objects.js b/code/lists_of_objects.js
@@ -174,10 +174,10 @@ const sidelocks_list = findNameMatch(image_objects, "sidelocks").item_list
 const hair_extra_list = findNameMatch(image_objects, "hair_extra").item_list
 const fringe_not_straight = stringIndices(fringe_list, ["curly", "locs"])
 const sidelocks_not_straight = stringIndices(sidelocks_list, ["curly", "locs"])
-const hair_extra_not_straight = stringIndices(hair_extra_list, ["curly", "locs"])
+const hair_extra_not_straight = stringIndices(hair_extra_list, ["curly", "locs","puff"])
 const fringe_not_wavy = stringIndices(fringe_list, ["locs","hime"])
 const sidelocks_not_wavy = stringIndices(sidelocks_list, ["locs","hime"])
-const hair_extra_not_wavy = stringIndices(hair_extra_list, ["locs","hime"])
+const hair_extra_not_wavy = stringIndices(hair_extra_list, ["locs","hime","puff"])
 const fringe_not_curly = stringIndices(fringe_list, ["straight","locs","hime","spik"])
 const sidelocks_not_curly = stringIndices(sidelocks_list, ["straight","locs","hime"])
 const hair_extra_not_curly = stringIndices(hair_extra_list, ["straight","locs","twintails"])

diff --git a/credits.html b/credits.html
@@ -20,6 +20,7 @@ Art created with this dollmaker is allowed to be used within commercial products
 <li><a href="https://wikiislam.net/index.php?title=File:Hijab.jpg&filetimestamp=20130726080659&">Hijab image from Wikipedia</a></li>
 <li><a href="https://upload.wikimedia.org/wikipedia/commons/7/73/Sikh_man,_Agra_11.jpg">Sikh turban image from Wikipedia</a></li>
 <li><a href="https://www.pickpik.com/girl-roses-red-wreath-flowers-beauty-33839">Flower Crown</a></li>
+<li><a href="https://cucurbitapepo.itch.io/girl-sprites-for-visual-novel">Girl Sprites for Visual Novels</a></li>
 </ul>
 <h2>Other Credits</h2>
 The code is a mixture of <a href="https://alpinejs.dev/">Alipinejs</a> and <a href="https://getbootstrap.com/">Bootstrap</a>.

diff --git a/code/generate_images.py b/code/generate_images.py
@@ -214,18 +214,18 @@ shoes_list_decs = ["boots","sneakers" ]
 shoes_list_d = [shoes_list_f, shoes_list_m, shoes_list_w,shoes_list_decs,[],False]
 
 hair_extra_list_u = ["none","topknot"]
-hair_extra_list_f = hair_extra_list_u+ ["straight high pony","straight low pony", "curly pony", "small curly pony","low curly pony","bun","fancy bun","locs bun","twin braids","twintails","locs pony"]
+hair_extra_list_f = hair_extra_list_u+ ["straight high pony","straight low pony", "curly pony", "small curly pony","low curly pony","bun","fancy bun","locs bun","little bun","little buns", "twin braids","twintails","long twintails","twin puffs", "side straight pony","long side straight pony", "locs pony"]
 hair_extra_list_m = hair_extra_list_u
 hair_extra_list_w = ["fancy bun","topknot"] 
 hair_extra_list_d = [hair_extra_list_f, hair_extra_list_m, hair_extra_list_w,[],[],True]
 
-hair_back_list = ["none","balding", "buzzcut","straight short","curly short","wavy short", "straight side", "fade", "shaggy short", "tight curls short","tight curls medium", "shaggy medium", "curly bob","wavy bob", "straight bob","locs bob", "half up medium wavy","straight long","wavy long","curly long", "long locs",  "curly flowing", "straight flowing","straight up","curly up","locs up"]
+hair_back_list = ["none","balding", "buzzcut","straight short","curly short","wavy short", "straight side", "fade", "shaggy short", "tight curls short","tight curls medium", "shaggy medium", "curly bob","wavy bob", "straight bob","locs bob", "half up medium wavy", "straight long","wavy long","curly long", "long locs",  "curly flowing", "straight flowing","straight up","curly up","locs up"]
 hair_back_list_d = default_list(hair_back_list)
 
 hair_middle_list = ["none", "shaved", "balding","cornrows","short","long","long shadowed"]
 hair_middle_list_d = default_list(hair_middle_list)
 
-hair_front_list = ["none", "balding", "neat side", "fade", "long locs","curly flowing","curly long","straight flowing","locs bun", "locs bob","short locs","cornrows"]
+hair_front_list = ["none", "balding", "neat side", "fade", "long locs","curly flowing","curly long","straight half up","bob half up", "straight flowing","locs bun", "locs bob","short locs","cornrows"]
 hair_front_list_d = default_list(hair_front_list)
 
 sidelocks_list_u = ["short straight", "short hime","short wavy", "short curls","short locs"]
@@ -587,7 +587,7 @@ def runStuff():
     #"back","socks","shoes","gloves"
     
     for c in closet:
-        if c.name in ["fringe","sidelocks"]:
+        if c.name in ["hair_front","hair_back"]:
             process_portrait_part(c)
 
     makeHourglass()        
